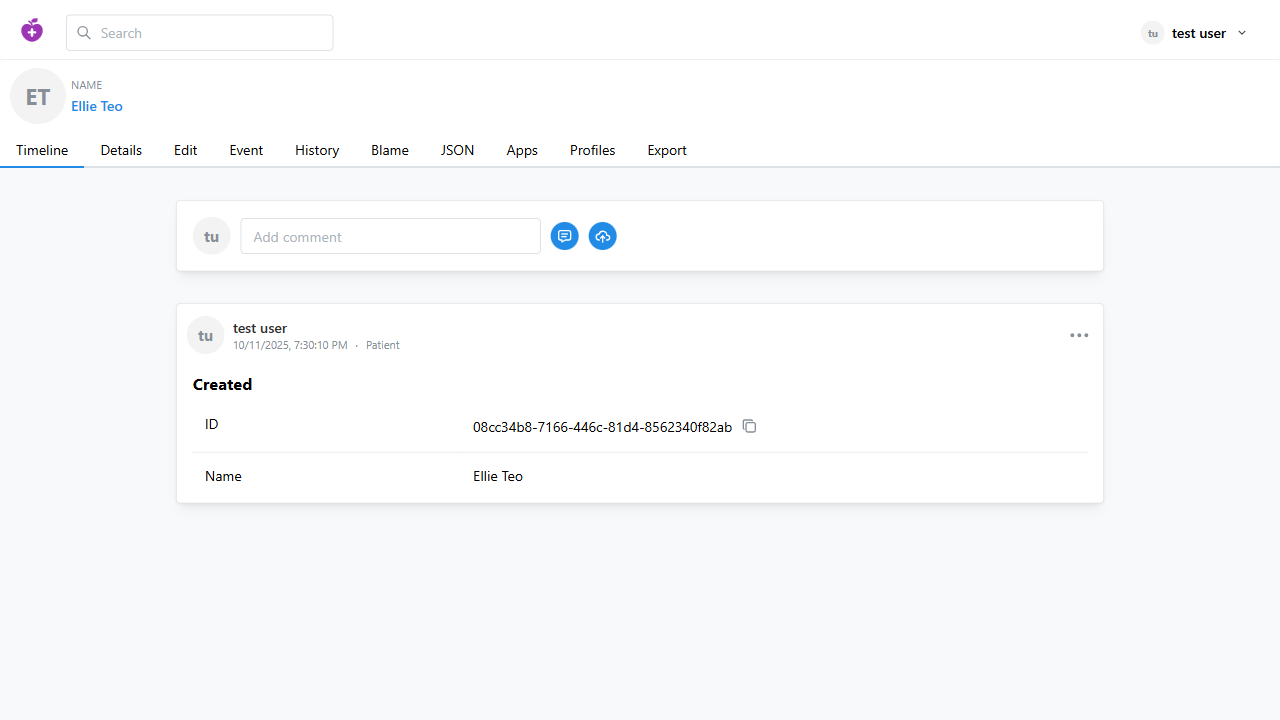
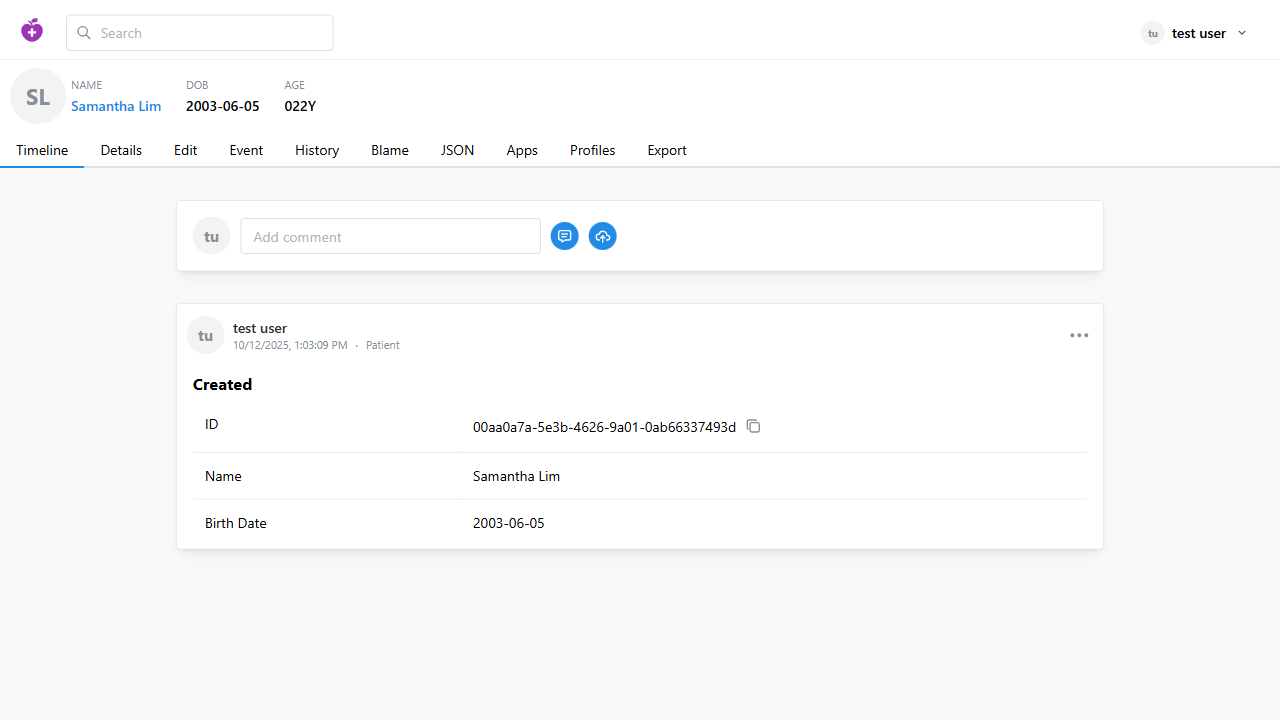
update screenshot

diff --git a/chatbot_ui.py b/chatbot_ui.py
@@ -1,11 +1,11 @@
 import streamlit as st
 import os
-import time
+import concurrent.futures
 
 from main import agent_executor, parser
 from tools import capture_screenshot
 
-st.set_page_config(page_title="AI Agent Chat", page_icon="💬")
+st.set_page_config(page_title="AI Agent Chat", page_icon="🤖")
 st.title("AI Agent Chatbot")
 
 if "messages" not in st.session_state:
@@ -14,11 +14,8 @@ if "messages" not in st.session_state:
 if "latest_output" not in st.session_state:
     st.session_state.latest_output = ""
 
-user_input = st.text_input("What can I help you with?")
-start_button = st.button("Send")
-
-# Placeholder for screenshots
-screenshot_display = st.empty()
+# Chat input field (bottom aligned)
+user_input = st.chat_input("What can I help you with?")
 
 def run_agent(query):
     try:
@@ -29,9 +26,6 @@ def run_agent(query):
             structured = parser.parse(output)
             pretty = f"""
 {structured.message}
-
-Tools Used:
-- {'\n- '.join(structured.tools_used)}
 
 Evidence:
 - {'\n- '.join(structured.evidence)}
@@ -45,38 +39,44 @@ Completed Steps:
 Collected Data:
 - {chr(10).join([f"{k}: {v}" for k, v in structured.data_collected.items()])}
 """
-            return pretty.strip()
+            final_output = pretty.strip()
         except Exception:
-            return output
-    except Exception as e:
-        return f"Agent failed: {e}"
+            final_output = output
 
-# --- Main run logic ---
-if start_button and user_input.strip():
+        # Capture screenshot inside same thread
+        screenshot_path = "latest_screenshot.png"
+        if os.path.exists(screenshot_path):
+            os.remove(screenshot_path)
+        capture_screenshot(screenshot_path)
+
+        return final_output, screenshot_path
+
+    except Exception as e:
+        return f"Agent failed: {e}", None
+
+if user_input:
+    # Show user message
     st.session_state.messages.append({"role": "user", "content": user_input})
     with st.chat_message("user"):
         st.markdown(user_input)
 
-    # Run agent (no threading)
-    output = run_agent(user_input)
+    # Run agent and screenshot in thread
+    with concurrent.futures.ThreadPoolExecutor() as executor:
+        future = executor.submit(run_agent, user_input)
+        output, screenshot_path = future.result()
+
     st.session_state.latest_output = output
 
-    # Capture screenshot after agent run
-    try:
-        path = "latest_screenshot.png"
-        if os.path.exists(path):
-            os.remove(path)
-        capture_screenshot(path)
-        screenshot_display.image(path, caption="Medplum View After Automation", use_container_width=True)
-    except Exception as e:
-        screenshot_display.warning(f"Could not capture screenshot: {e}")
+    # Append assistant message (no direct rendering here)
+    st.session_state.messages.append({"role": "assistant", "content": output})
 
-    # Display final output
-    with st.chat_message("assistant"):
-        st.text(output)
-        st.session_state.messages.append({"role": "assistant", "content": output})
+    # Show screenshot if available
+    if screenshot_path and os.path.exists(screenshot_path):
+        st.image(screenshot_path, caption="Medplum View After Automation", use_container_width=True)
+    else:
+        st.warning("No screenshot captured or file missing.")
 
-# Show full chat history
+# Show entire chat history
 for msg in st.session_state.messages:
     with st.chat_message(msg["role"]):
         st.markdown(msg["content"])
